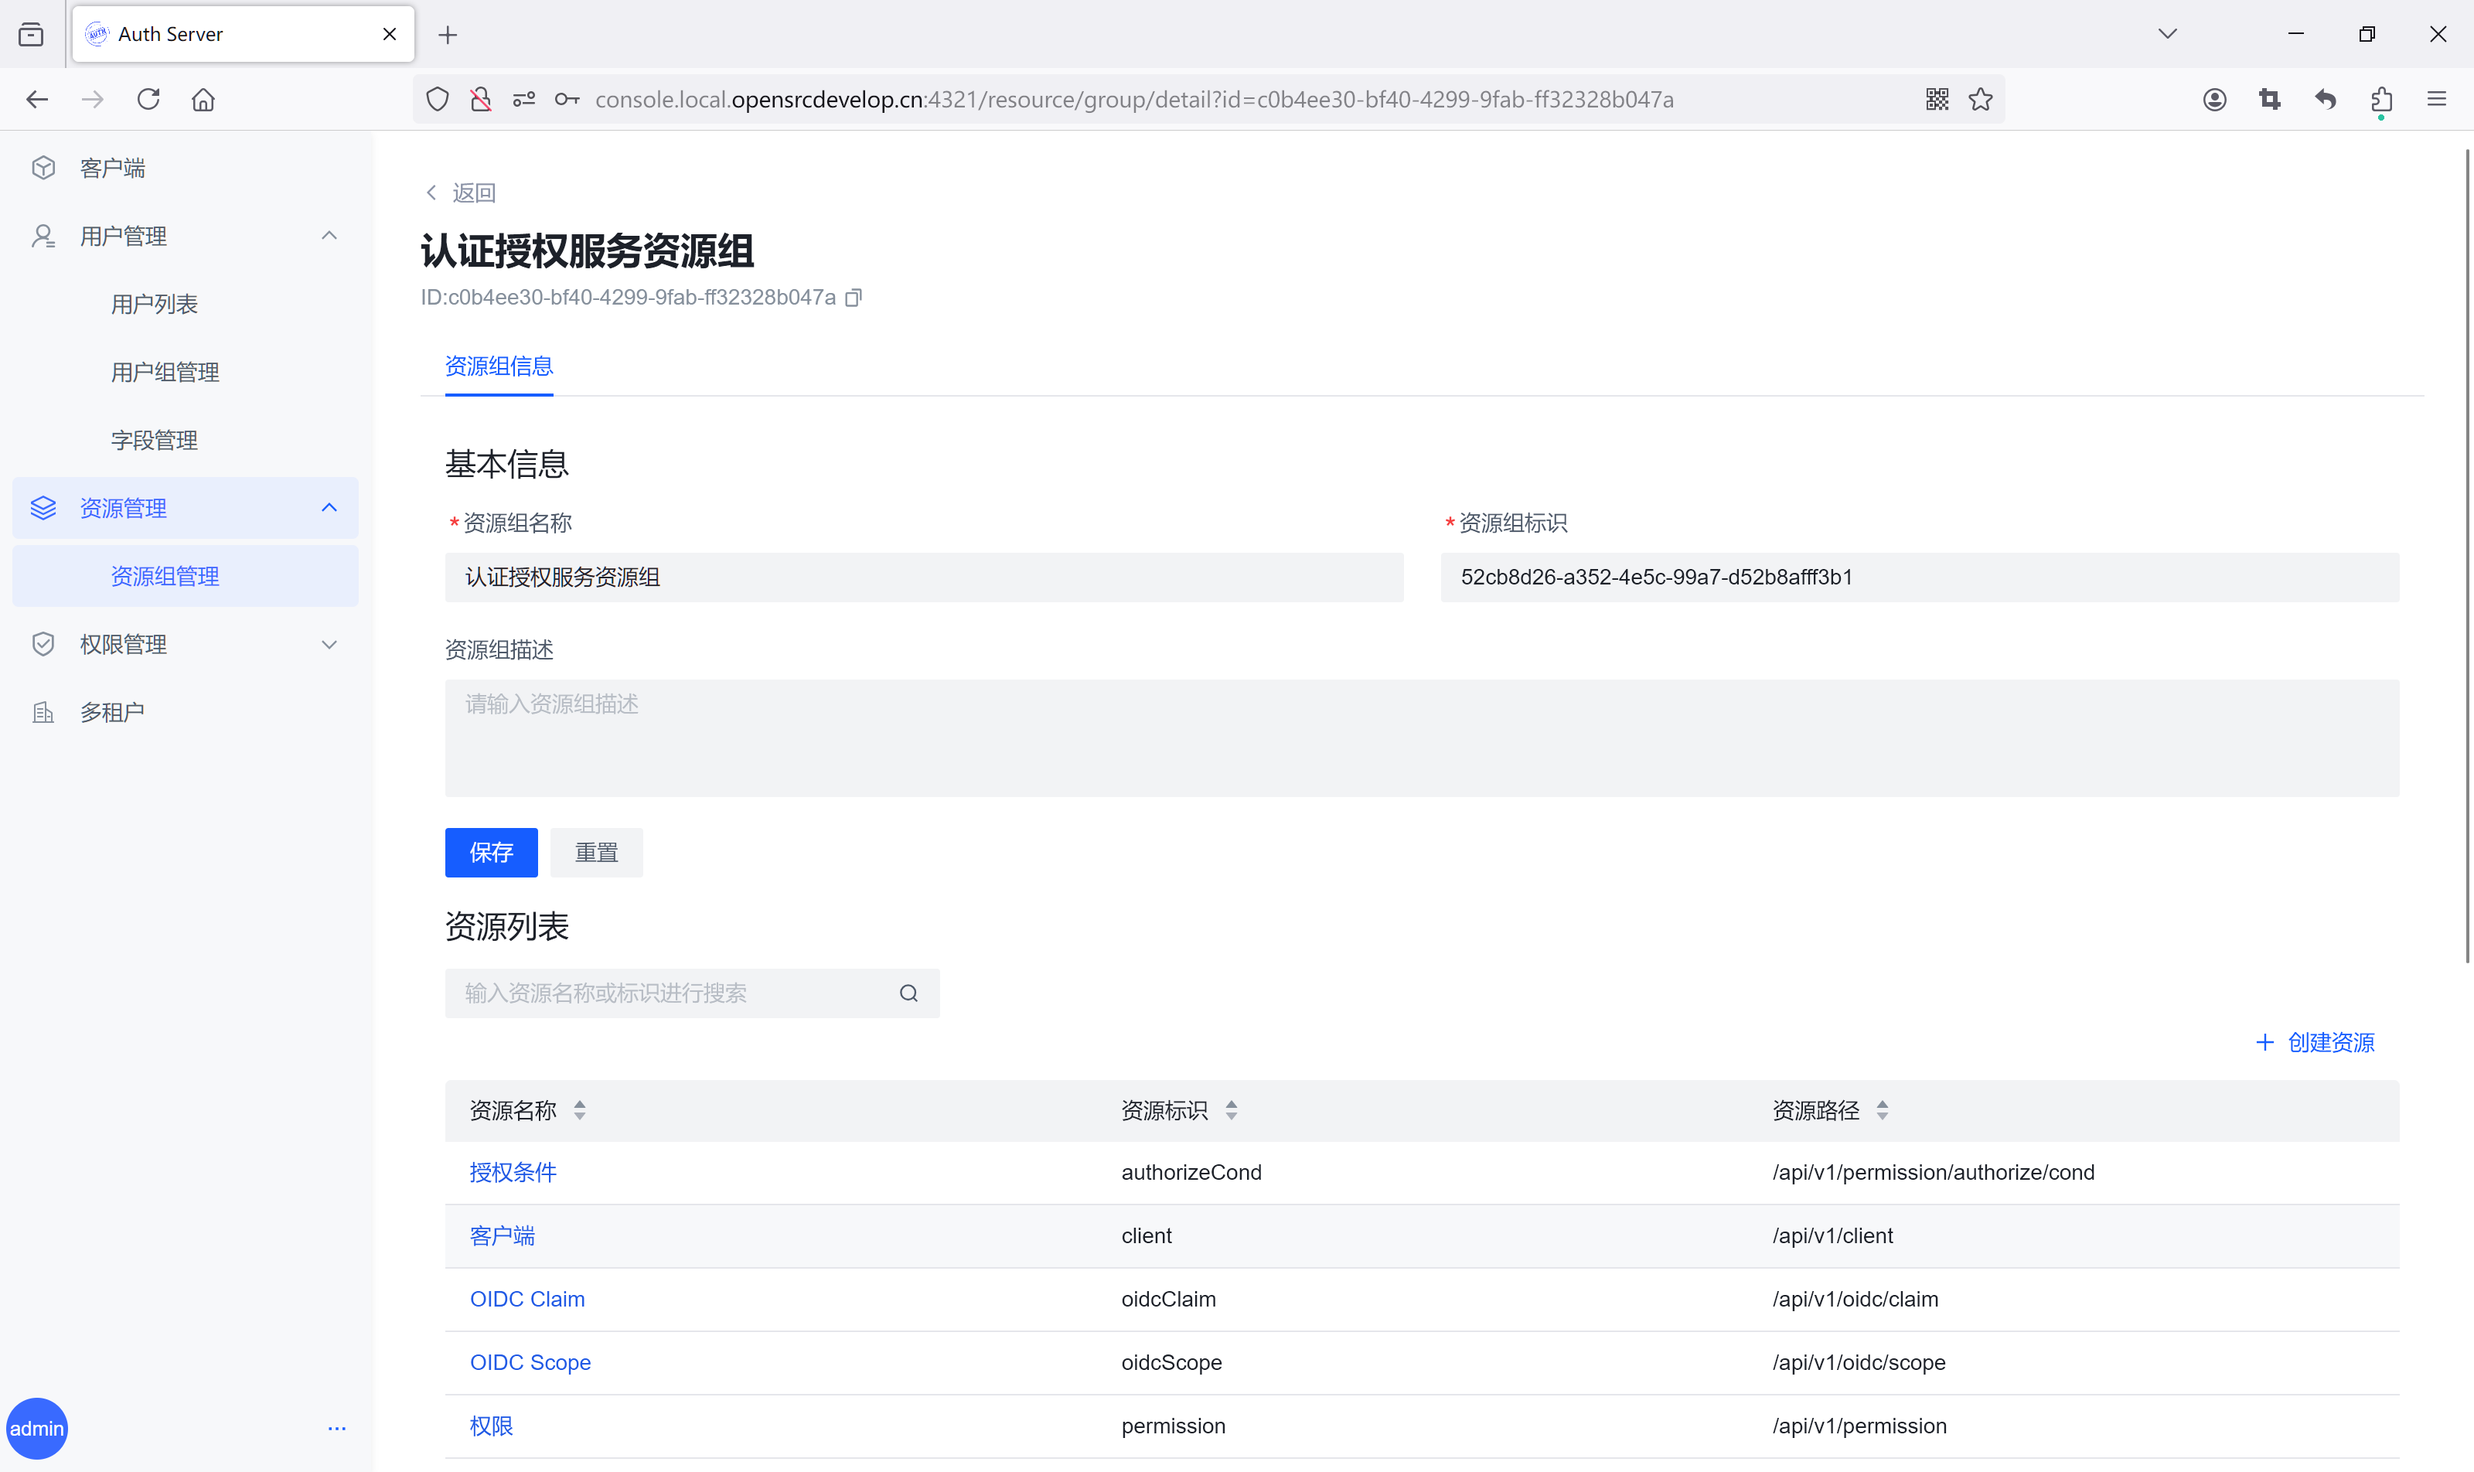
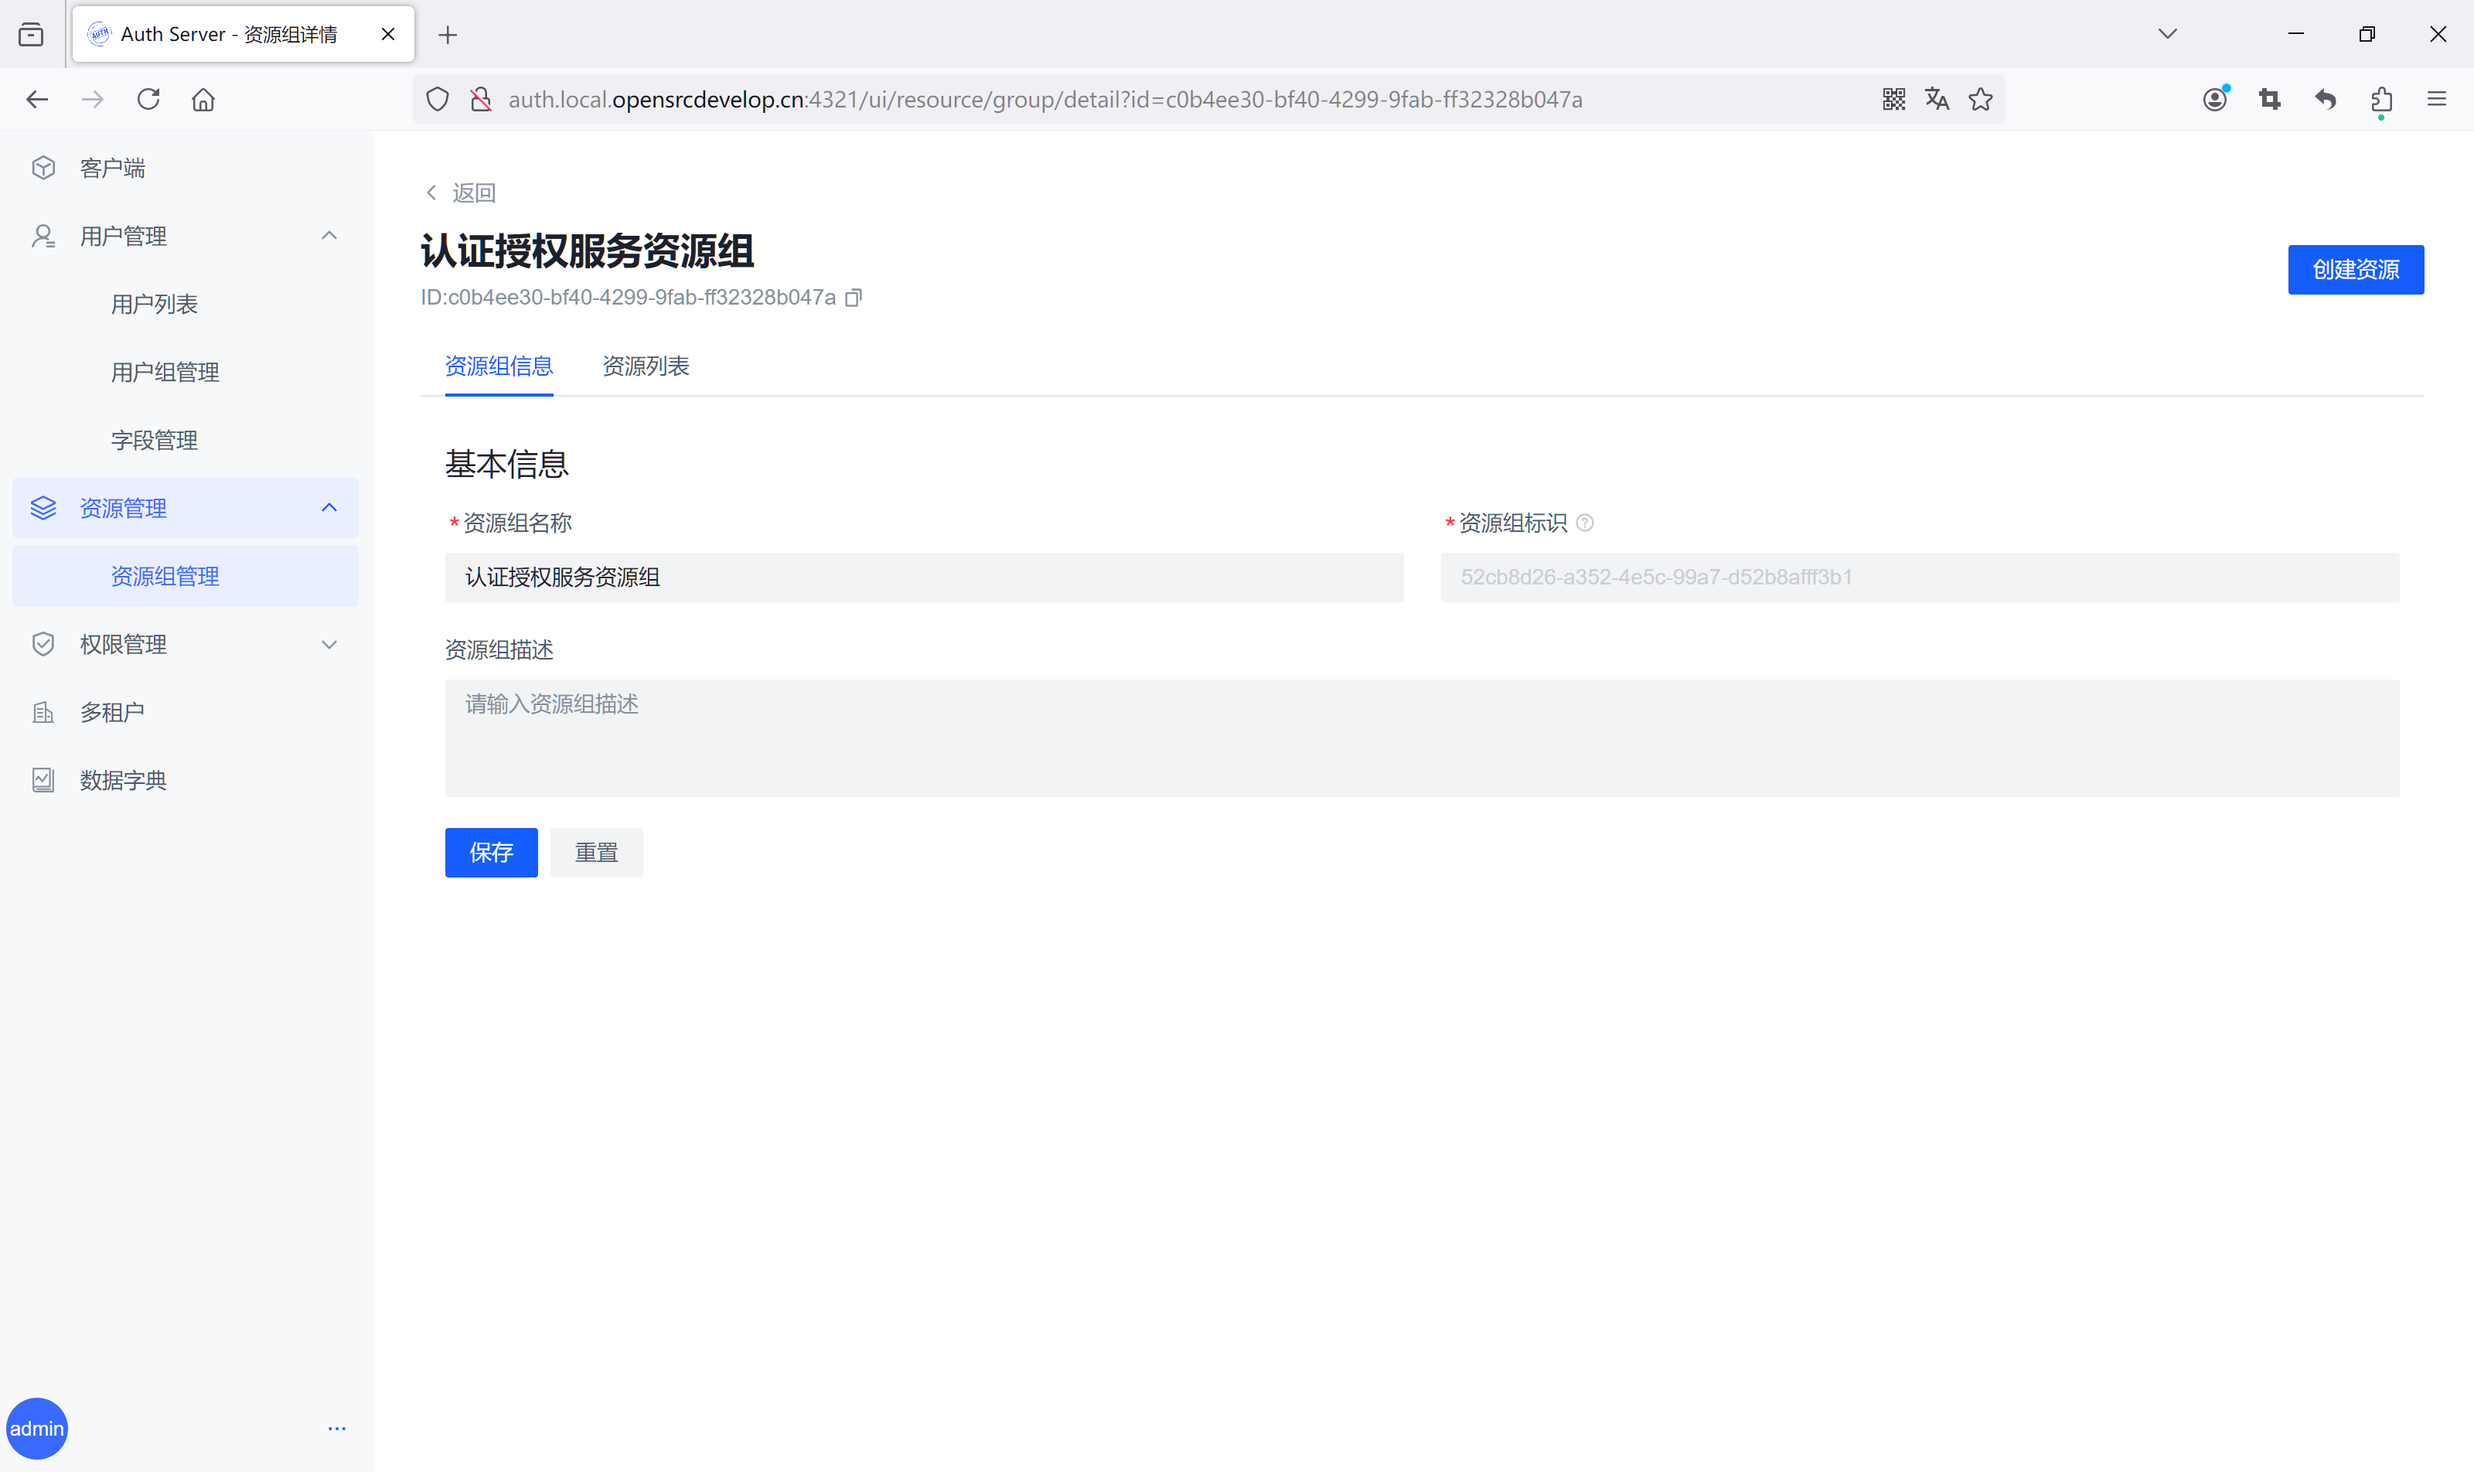
update readme

diff --git a/README.md b/README.md
@@ -25,6 +25,7 @@
 - 权限管理
 - 多租户
 - 个人中心
+- 数据字典
 
 ### 功能概述
 
@@ -51,7 +52,7 @@
   - 禁用 / 解禁用户
   - 关闭 / 启用 MFA
   - 连续登录失败超过设置次数禁用账号
-  - 自定义扩展用户字段，支持的数据类型：字符串、布尔值、数字、日期时间
+  - 自定义扩展用户字段，支持的数据类型：字符串、布尔值、数字、日期、日期时间、字典
   - 自定义筛选条件，筛选用户
   - 用户分组，统一授权管理
 
@@ -81,6 +82,13 @@
 - 个人中心
 
   支持用户更新可见的个人信息、账号绑定、修改密码。
+  
+- 数据字典
+
+  集中同类型数据元素，提供统一管理。字典与扩展用户字段关联，提供字段值选项。
+
+  - 创建字典及字典内数据元素
+  - 配置数据元素显示顺序及启用状态
 
 ### 持续集成（CI）
 
@@ -94,13 +102,9 @@
 
 集成 [**Elastic APM**](https://www.elastic.co/cn/observability/application-performance-monitoring) 实现程序性能监控。
 
-### 前端工程
-
-**[Auth Server Console](https://github.com/opensrcdevelop/auth-server-front)**
-
 ### 演示地址
 
-- URL：[https://tm5wt3mp.console.opensrcdevelop.cn](https://tm5wt3mp.console.opensrcdevelop.cn/)
+- URL：[https://tm5wt3mp.auth.opensrcdevelop.cn](https://tm5wt3mp.auth.opensrcdevelop.cn/)
 - 账号 / 密码：preview / preview
 
 ### 演示截图

diff --git a/ui/README.md b/ui/README.md
@@ -1,32 +1,12 @@
 # 认证授权服务控制台（Auth Server Console）
 
-认证授权服务控制台（Auth Server Console）为 ([**Auth Server**](https://github.com/opensrcdevelop/auth)) 前端工程。
+认证授权服务前端工程。
 
 ### 主要技术
 
 - Vite
-
 - Vue3
 - Vue Router
 - Pinia
 - Arco Design
-
-### 主要功能
-
-- 客户端
-- 用户管理
-  - 用户列表
-  - 用户组管理
-  - 字段管理
-- 资源管理
-  - 资源组管理
-- 权限管理
-  - 资源权限
-  - 角色管理
-  - 限制条件
-- 多租户
-
-### 持续集成（CI）
-
-基于 [**GitHub Actions**](https://docs.github.com/zh/actions) 实现持续集成（CI），自动编译、打包、构建 Docker 镜像、发布到镜像仓库。
 
